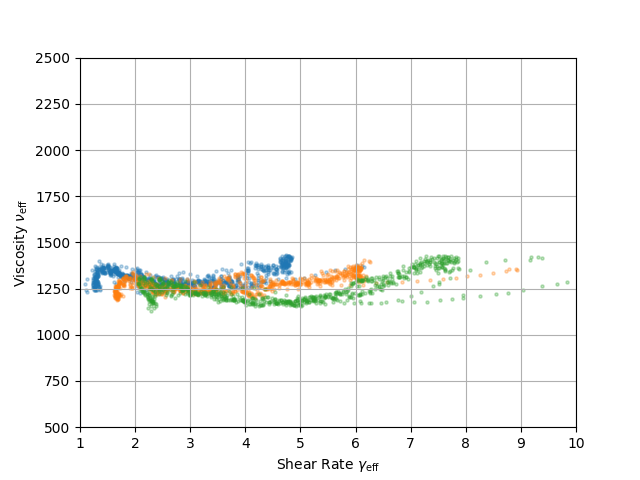
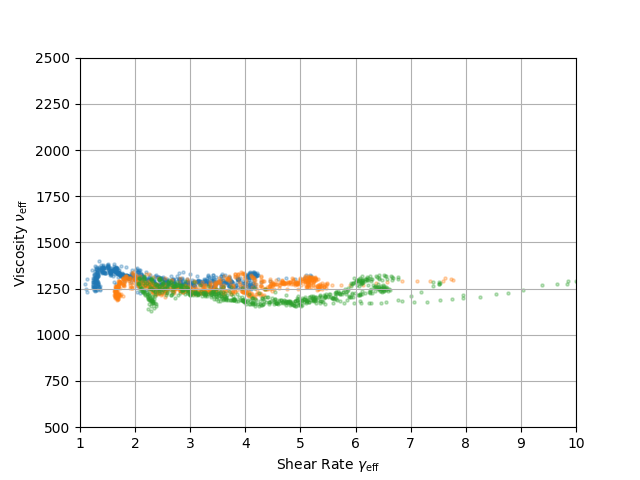
5.22.1

Changed region(s): [[0.3125, 0.5312, 0.8438, 0.625], [0.875, 0.5625, 0.9062, 0.5938]]

diff --git a/20230521_largevessel_15p_Emulsion/analysis.py b/20230521_largevessel_15p_Emulsion/analysis.py
@@ -4,13 +4,13 @@ from pyuvp import uvp
 
 # files = ["05hz90deg.mfprof", "05hz105deg.mfprof", "05hz120deg.mfprof", "05hz135deg.mfprof", "05hz150deg.mfprof"]
 # files = ["1hz60deg.mfprof", "1hz65deg.mfprof", "1hz75deg.mfprof", "1hz80deg.mfprof", "1hz90deg.mfprof"]
-# files = ["day2-1hz60deg.mfprof", "day2-1hz90deg.mfprof", "day2-1hz120deg.mfprof", ]
-files = ["day2-05hz90deg.mfprof", "day2-05hz120deg.mfprof", "day2-05hz150deg.mfprof", ]
+files = ["day2-1hz60deg.mfprof", "day2-1hz90deg.mfprof", "day2-1hz120deg.mfprof", ]
+# files = ["day2-05hz90deg.mfprof", "day2-05hz120deg.mfprof", "day2-05hz150deg.mfprof", ]
 plt.figure()
 plt.xlabel(r'Shear Rate $\gamma_{\mathrm{eff}}$ ')
 plt.ylabel(r'Viscosity $\nu_{\mathrm{eff}}$')
 plt.ylim(500, 2500)
-plt.xlim(1, 5)
+plt.xlim(1, 10)
 
 for file in files:
     data = uvp.readData(file)
@@ -18,7 +18,7 @@ for file in files:
     vel_origin = data.velTables[0]
     coords_origin = data.coordinateSeries[0]
     analysis = data.createUSRAnalysis()
-    analysis.channelRange(60, 100)
+    analysis.channelRange(65, 100)
     analysis.cylinderGeom(77, 79, 10.615)
     analysis.slicing(20)
     analysis.sliceSize(5000)
